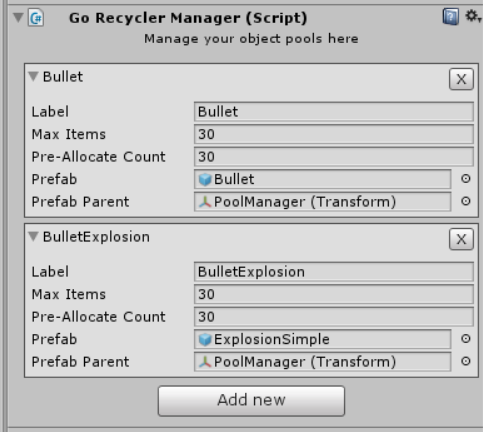
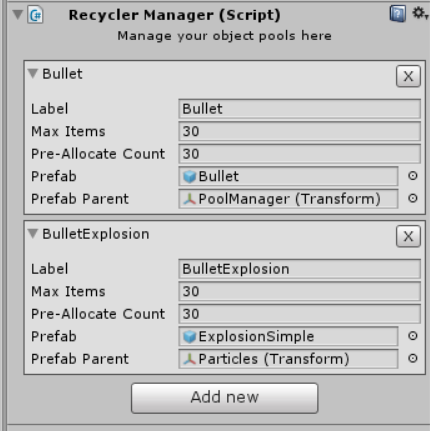
Updated Readme and Simplfyed api

Changed region(s): [[0.0, 0.0, 1.0, 0.9954]]

diff --git a/Assets/GoRecycler/Runtime/RecyclerManager.cs b/Assets/GoRecycler/Runtime/RecyclerManager.cs
@@ -3,24 +3,24 @@ using UnityEngine;
 
 namespace GoRecycler
 {
-    [AddComponentMenu("GoRecycler/GoRecycler Manager")]
-    public class GoRecyclerManager : MonoBehaviour
+    [AddComponentMenu("GoRecycler/Recycler Manager")]
+    public class RecyclerManager : MonoBehaviour
     {
         #region Singleton  
 
-        private static GoRecyclerManager _instance;
+        private static RecyclerManager _instance;
         
-        public static GoRecyclerManager Instance
+        public static RecyclerManager Instance
         {
             get
             {
                 if (!_instance)
                 {
-                    _instance = FindObjectOfType<GoRecyclerManager>();
+                    _instance = FindObjectOfType<RecyclerManager>();
                 }
                 if (!_instance)
                 {
-                    Debug.LogError( "No "  + typeof(GoRecyclerManager).Name + " instance found in the scene");
+                    Debug.LogError( "No "  + typeof(RecyclerManager).Name + " instance found in the scene");
                 }
                 return _instance;
             }
@@ -29,7 +29,7 @@ namespace GoRecycler
         #endregion
 
         [SerializeField]
-        private GoRecycleBin[] Pools;
+        private RecycleBin[] Pools;
 
         private Dictionary<int, int> InstanceidToPoolid = new Dictionary<int, int>();
 
@@ -50,13 +50,13 @@ namespace GoRecycler
                     }
                     else
                     {
-                        Debug.LogWarning("[" + typeof(GoRecyclerManager).Name +
+                        Debug.LogWarning("[" + typeof(RecyclerManager).Name +
                         "] Duplicated label detected (" + Pools[i].Label
                         + "). Please provide diferent label names in your pools, duplicated pool will be ignored.");
                     }
                 }else
                 {
-                    Debug.LogWarning("[" + typeof(GoRecyclerManager).Name +
+                    Debug.LogWarning("[" + typeof(RecyclerManager).Name +
                       "] Empty label detected, please specify a label for your Pools");
                 }
             }
@@ -129,6 +129,22 @@ namespace GoRecycler
         {
             return Instance.GetPrefab(Label, Position, Rotation);
         }
+
+        /// <summary>
+        /// Returns the RecycleBin asigned to the gameObject
+        /// </summary>
+        /// <param name="obj">GameObject</param>
+        /// <returns>RecycleBin instance or null if no RecycleBin asigned</returns>
+        public static RecycleBin GetRecycleBin (GameObject obj)
+        {
+            int index;
+            if(Instance.InstanceidToPoolid.TryGetValue(obj.GetInstanceID(), out index))
+            {
+                if (index >= 0)
+                    return Instance.Pools[index];
+            }
+            return null;
+        }
         
         /// <summary>
         /// Is the instance id asigned to an Object Pool ?
@@ -164,29 +180,5 @@ namespace GoRecycler
             }
         }
         
-        /// <summary>
-        /// Gets the RecycleBin Assigned from the GameObject
-        /// </summary>
-        /// <param name="obj">GameObject</param>
-        /// <returns>RecycleBin instance</returns>
-        public GoRecycleBin GetRecycleBin (GameObject obj)
-        {
-            if (!obj) return null;
-
-            int _instanceid = obj.GetInstanceID();
-
-            int poolid = IdinstanceToPoolid(_instanceid);
-
-            if (poolid >= 0)
-            {
-               return Pools[poolid];
-            }else
-            {
-                return null;
-            }
-        }
-
-        
-
     }
 }

diff --git a/Assets/GoRecycler/Runtime/ObjectPoolingExtentions.cs b/Assets/GoRecycler/Runtime/ObjectPoolingExtentions.cs
@@ -12,24 +12,15 @@ namespace GoRecycler
         /// </summary>
         public static void Recycle(this GameObject go)
         {
-            GoRecyclerManager.Instance.RecycleGameObject(go);
+            RecyclerManager.Instance.RecycleGameObject(go);
         }
         
         /// <summary>
         /// Is the gameObject asigned on an Object Pool ?
         /// </summary>
-        public static bool IsInObjectPool( this GameObject go)
+        public static bool IsOnPool( this GameObject go)
         {
-            return GoRecyclerManager.Instance.IsOnPool(go.GetInstanceID());
-        }
-
-        /// <summary>
-        /// Returns the RecycleBin instance for the gameObject
-        /// </summary>
-        /// <returns>RcycleBin instance or null if gameObject is not asigned to any object pool</returns>
-        public static GoRecycleBin GetRecycleBin(this GameObject go)
-        {
-            return GoRecyclerManager.Instance.GetRecycleBin(go);
+            return RecyclerManager.Instance.IsOnPool(go.GetInstanceID());
         }
     }
 }

diff --git a/Assets/GoRecycler/Runtime/RecycleBin.cs b/Assets/GoRecycler/Runtime/RecycleBin.cs
@@ -5,7 +5,7 @@ using UnityEngine;
 namespace GoRecycler
 {
     [System.Serializable]
-    public class GoRecycleBin : System.Object
+    public class RecycleBin : System.Object
     {
         #region Fields
         
@@ -83,7 +83,7 @@ namespace GoRecycler
                 IPooled ip = go.GetComponent<IPooled>();
                 if (ip != null)
                 {
-                    ip.OnRecycle(this);
+                    ip.OnRecycle();
                 }
                 go.SetActive(false);
                 go.transform.position = Vector3.zero;
@@ -163,7 +163,7 @@ namespace GoRecycler
                 IPooled ip = g.GetComponent<IPooled>();
                 if (ip != null)
                 {
-                    ip.OnSpawn(this);
+                    ip.OnSpawn();
                 }
                 return g;
             }

diff --git a/Assets/GoRecycler/Examples/Scripts/Shoot/Shooter.cs b/Assets/GoRecycler/Examples/Scripts/Shoot/Shooter.cs
@@ -14,9 +14,11 @@ namespace GoRecyclerExample
         public float LookSpeed;
 
         public float ShootForce;
+        
 
         private void Update()
         {
+            
             LookAt();
             Shoot();
         }
@@ -50,7 +52,9 @@ namespace GoRecyclerExample
         {
             if (Input.GetButtonDown("Fire1"))
             {
-                GameObject bullet = GoRecyclerManager.Spawn(BulletLabel, ShootPoint.position, ShootPoint.rotation);
+                GameObject bullet = RecyclerManager.Spawn(BulletLabel, ShootPoint.position, ShootPoint.rotation);
+
+                
 
                 if (bullet != null)
                 {

diff --git a/Assets/GoRecycler/Examples/Scripts/Traffic/TrafficSpawner.cs b/Assets/GoRecycler/Examples/Scripts/Traffic/TrafficSpawner.cs
@@ -20,7 +20,7 @@ namespace GoRecyclerExample
             {
                 int i = Random.Range(0, TrafficPoints.Length);
                 if (i != lastindex)
-                    GoRecyclerManager.Spawn(PoolLabels[Random.Range(0,PoolLabels.Length)], TrafficPoints[i].position, TrafficPoints[i].rotation);
+                    RecyclerManager.Spawn(PoolLabels[Random.Range(0,PoolLabels.Length)], TrafficPoints[i].position, TrafficPoints[i].rotation);
                 lastindex = i;
                 yield return new WaitForSeconds(Time.deltaTime + SpawnTime);
             }

diff --git a/Assets/GoRecycler/Runtime/ParticleSystemRecycler.cs b/Assets/GoRecycler/Runtime/ParticleSystemRecycler.cs
@@ -40,7 +40,7 @@ namespace GoRecycler
             StopCoroutine(KillParticles());
         }
 
-        public void OnRecycle(GoRecycleBin RecycleBin)
+        public void OnRecycle()
         {
             if (particles != null)
             {
@@ -50,7 +50,7 @@ namespace GoRecycler
             }
         }
 
-        public void OnSpawn(GoRecycleBin RecycleBin)
+        public void OnSpawn()
         {
             if (AutoPlay && particles != null)
             {

diff --git a/Assets/GoRecycler/Examples/Scripts/Shoot/BulletScript.cs b/Assets/GoRecycler/Examples/Scripts/Shoot/BulletScript.cs
@@ -15,8 +15,8 @@ namespace GoRecyclerExample
         {
             yield return new WaitForSeconds(TimeOut);
 
-            GoRecyclerManager.Spawn(ExplosionLabel, transform.position, Quaternion.identity);
-
+            RecyclerManager.Spawn(ExplosionLabel, transform.position, Quaternion.identity);
+            
             gameObject.Recycle();
 
             started = false;

diff --git a/Assets/GoRecycler/Runtime/IPooled.cs b/Assets/GoRecycler/Runtime/IPooled.cs
@@ -1,12 +1,8 @@
-using System.Collections;
-using System.Collections.Generic;
-using UnityEngine;
-
 namespace GoRecycler
 {
     public interface IPooled
     {
-        void OnSpawn(GoRecycleBin RecycleBin);
-        void OnRecycle(GoRecycleBin RecycleBin);
+        void OnSpawn();
+        void OnRecycle();
     }
 }

diff --git a/Assets/GoRecycler/Editor/RecyclerManagerEditor.cs b/Assets/GoRecycler/Editor/RecyclerManagerEditor.cs
@@ -4,8 +4,8 @@ using GoRecycler;
 
 namespace GoRecyclerEditor
 {
-    [CustomEditor(typeof(GoRecyclerManager))]
-    internal class GoRecyclerManagerEditor : Editor
+    [CustomEditor(typeof(RecyclerManager))]
+    internal class RecyclerManagerEditor : Editor
     {
         /// <summary>
         /// Recyclebin List

diff --git a/README.md b/README.md
@@ -1,5 +1,5 @@
 # GoRecycler
-Object Pool Manager for unity 3d Game Engine. 
+Object Pool Manager for Unity3d Game Engine. 
 
 ![ScreenShot](ScreenShot.PNG)
 
@@ -22,8 +22,57 @@ namespace ExampleNamespace
         public string PoolLabel;
         void Start ()
         {
-            GameObject myPooledPrefab = GoRecyclerManager.Spawn(PoolLabel, transform.position, Quaternion.identity);
+            // it enables the gameObject by default
+            GameObject bullet = RecyclerManager.Spawn(PoolLabel, transform.position, transform.rotation);
         }
     }
 }
+```
+
+### Recycle to Object Pool
+
+```csharp
+using UnityEngine;
+using System.Collections;
+using GoRecycler;
+
+namespace ExampleNamespace
+{
+    public class ExampleClass : MonoBehaviour
+    {
+        IEnumerator Start ()
+        {
+            yield return new WaitForSeconds(5);
+            // it disables the gameObject by default
+            gameObject.Recycle();
+        }
+    }
+}
+```
+
+###  Check if the GameObject is on a Object Pool
+
+```csharp 
+using UnityEngine;
+using System.Collections;
+using GoRecycler;
+
+namespace ExampleNamespace
+{
+    public class ExampleClass : MonoBehaviour
+    {
+        void OnEnable ()
+        {
+            bool inPool = gameObject.IsOnPool();
+            if (inPool) Debug.Log("I'm on a Object Pool");
+        }
+    }
+}
+```
+
+### Get the object pool asigned to the Game Object
+
+```csharp
+// RecycleBin is the object pool class that handles the Pool to a Prefab
+RecycleBin recyclebin = RecyclerManager.GetRecycleBin(gameObject);
 ```
